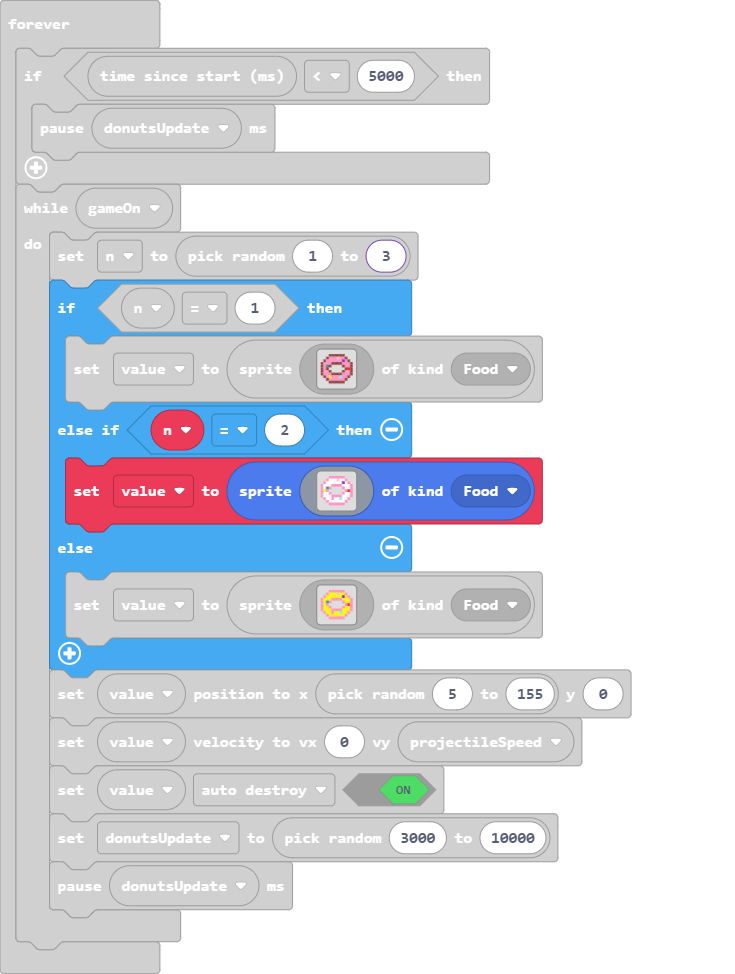
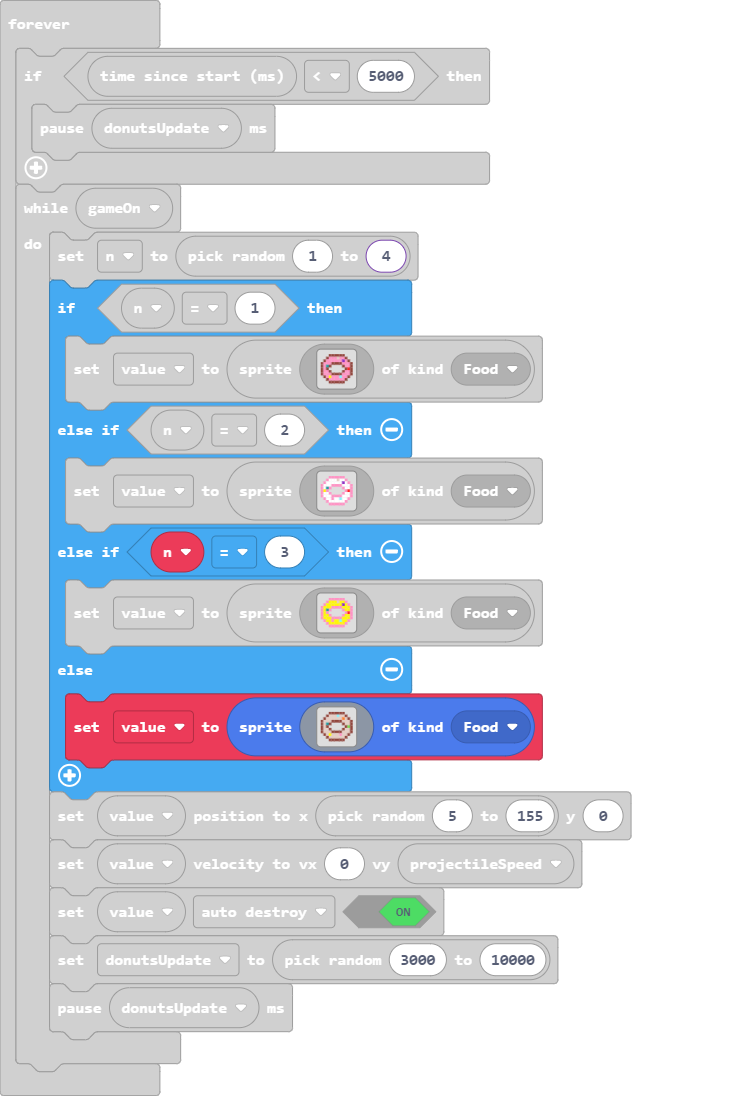
Update main.blocks, main.ts, images.g.jres, images.g.ts

diff --git a/images.g.ts b/images.g.ts
@@ -250,20 +250,6 @@ e 3 3 3 e e e e 3 3 3 e
 . . e 3 3 3 3 3 3 e . . 
 . . . e e e e e e . . . 
 `;
-            case "image12":
-            case "Donut 0":return img`
-. . . 3 3 3 3 3 3 . . . 
-. . 3 5 5 5 d 5 5 3 . . 
-. 3 5 5 5 5 5 5 a 5 3 . 
-3 5 5 5 3 3 3 3 5 5 5 3 
-3 5 6 3 . . . . 3 5 5 3 
-3 5 3 . . . . . . 3 2 3 
-3 5 5 3 . . . . 3 5 5 3 
-3 5 5 5 3 3 3 3 5 5 5 3 
-. 3 5 5 3 5 5 9 5 5 3 . 
-. . 3 5 5 5 5 5 5 3 . . 
-. . . 3 3 3 3 3 3 . . . 
-`;
             case "image13":
             case "Task":return img`
 . f f f f f f f f f f . 
@@ -304,6 +290,34 @@ f f f 6 6 2 2 f f f f f
 . 3 1 1 3 1 1 9 1 1 3 . 
 . . 3 1 1 1 1 1 1 3 . . 
 . . . 3 3 3 3 3 3 . . . 
+`;
+            case "image12":
+            case "Donut 2":return img`
+. . . 3 3 3 3 3 3 . . . 
+. . 3 5 5 5 d 5 5 3 . . 
+. 3 5 5 5 5 5 5 a 5 3 . 
+3 5 5 5 3 3 3 3 5 5 5 3 
+3 5 6 3 . . . . 3 5 5 3 
+3 5 3 . . . . . . 3 2 3 
+3 5 5 3 . . . . 3 5 5 3 
+3 5 5 5 3 3 3 3 5 5 5 3 
+. 3 5 5 3 5 5 9 5 5 3 . 
+. . 3 5 5 5 5 5 5 3 . . 
+. . . 3 3 3 3 3 3 . . . 
+`;
+            case "image15":
+            case "Donut 4":return img`
+. . . e e e e e e . . . 
+. . e d d d 9 d d e . . 
+. e d d d d d d 4 d e . 
+e d d d e e e e d d d e 
+e d 6 e . . . . e d d e 
+e d e . . . . . . e 7 e 
+e d d e . . . . e d d e 
+e d d d e e e e d d d e 
+. e d 5 d d d 3 d d e . 
+. . e d d d d d d e . . 
+. . . e e e e e e . . . 
 `;
         }
         return null;

diff --git a/main.ts b/main.ts
@@ -180,13 +180,15 @@ forever(function () {
         pause(donutsUpdate)
     }
     while (gameOn) {
-        n = randint(1, 3)
+        n = randint(1, 4)
         if (n == 1) {
             value = sprites.create(assets.image`Donut 1`, SpriteKind.Food)
         } else if (n == 2) {
             value = sprites.create(assets.image`Donut 3`, SpriteKind.Food)
+        } else if (n == 3) {
+            value = sprites.create(assets.image`Donut 2`, SpriteKind.Food)
         } else {
-            value = sprites.create(assets.image`Donut 0`, SpriteKind.Food)
+            value = sprites.create(assets.image`Donut 4`, SpriteKind.Food)
         }
         value.setPosition(randint(5, 155), 0)
         value.setVelocity(0, projectileSpeed)
